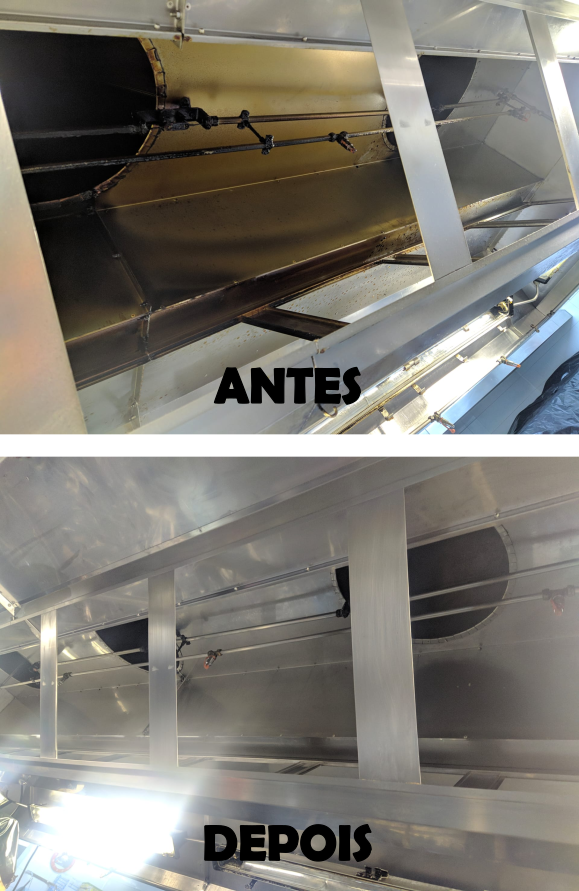
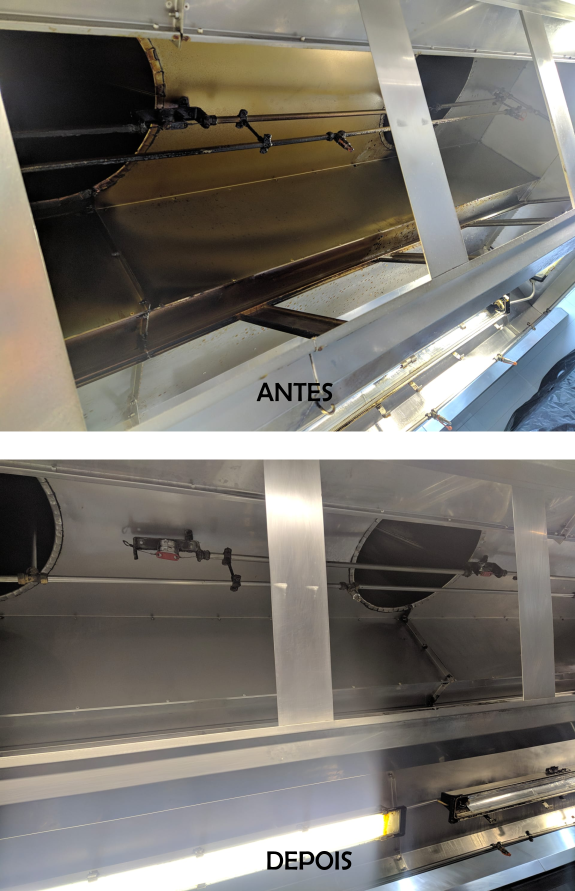
portfolio2

diff --git a/portfolio.html b/portfolio.html
@@ -104,6 +104,17 @@
             </div>
           </div>  
 
+          <div class="col-lg-4 col-md-6 portfolio-item filter-exe">
+            <img src="assets/img/portfolio/exe5.png" class="img-fluid" alt="">
+            <div class="portfolio-info">
+              <h4>Execução</h4>
+              <p>Serviço realizado em cozinha de hotel</p>
+              <a href="assets/img/portfolio/exe5.png" data-gall="portfolioGallery" class="venobox preview-link"
+                title="Cozinha hotel"><i class="bx bx-plus"></i></a>
+              <!--<a href="portfolio-details.html" class="details-link" title="More Details"><i class="bx bx-link"></i></a>-->
+            </div>
+          </div> 
+
           <div class="col-lg-4 col-md-6 portfolio-item filter-ant">
             <img src="assets/img/portfolio/antdep1.png" class="img-fluid" alt="">
             <div class="portfolio-info">
